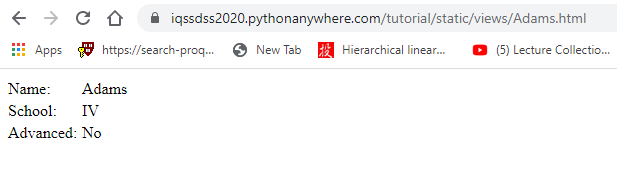
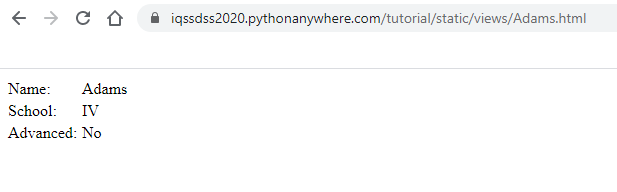
Fix two dead links and trim personal details from three screenshots
The links to the Python web-scraping workshop pointed at its 2021 address. Three captures showed bookmarks bars or request details beyond the practice site, and one code sample carried a personal file path. The landing page no longer promises a practice site.

Changed region(s): [[0.3695, 0.2188, 0.9854, 0.3125], [0.0, 0.2188, 0.3387, 0.3125]]

diff --git a/README.md b/README.md
@@ -8,8 +8,7 @@ Steve Worthington (IQSS); moved from bookdown to Quarto on the `dss-theme`
 extension in 2026, content as it was.
 
 The practice site the examples scrape, `iqssdss2020.pythonanywhere.com`, is
-offline, so the code is shown and not run; a practice site of our own is
-planned.
+offline, so the code is shown and not run.
 
 ## Build
 
